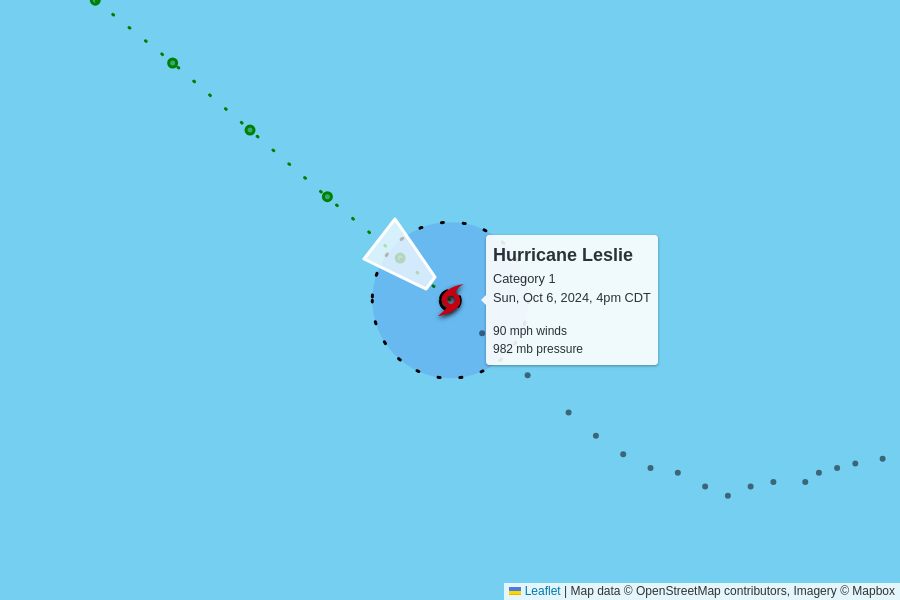
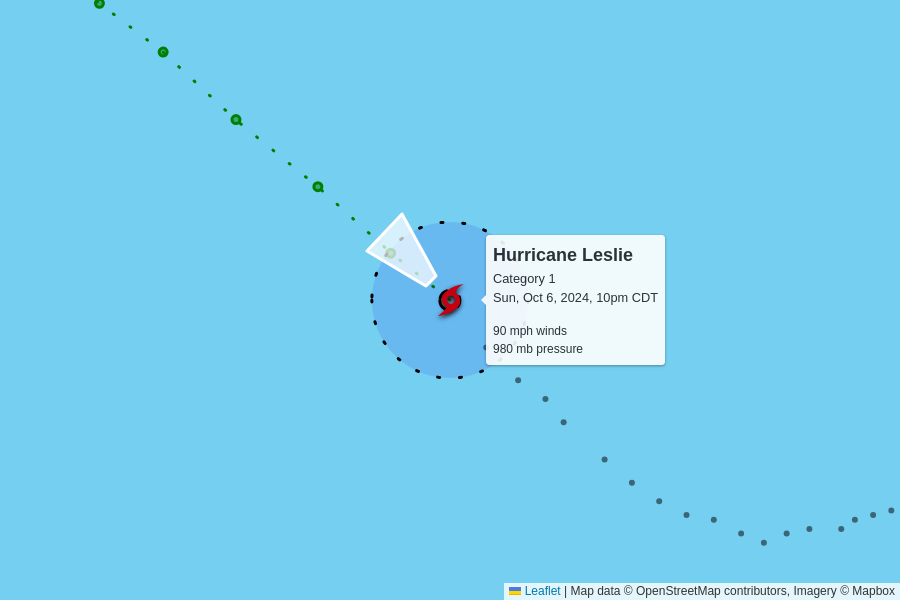
automatic update

diff --git a/docs/index.html b/docs/index.html
@@ -147,52 +147,8 @@
       <tr>
         <td colspan="6" class="storm category-1" >
           <h2>
-            Hurricane Milton - Category 1
-            <p class="updated">last updated <span data-time>2024-10-07T00:00:00.000Z</span></p>
-          </h2>
-        </td>
-      </tr>
-      
-      <tr>
-        <th class="spacer"></th>
-        <th>wind speed</th>
-        <th>central pressure</th>
-        <th>movement</th>
-        <th>data (CSV)</th>
-        <th>National Hurricane Center</th>
-      </tr>
-      <tr>
-        <td class="spacer"></td>
-        <td>85 mph<br>0 mph since last update</td>
-        <td>981 mb<br>-2 mb since last update</td>
-        <td>
-          7 mph to the east
-          <br/>
-          <span style="display: inline-block; font-size: 1.5em; transform: rotate(100deg);">↑</span>
-        </td>
-        <td><a href="https://raw.githubusercontent.com/mgwalker/atlantic-hurricanes/main/data/csv/AL142024.csv">AL142024.csv</a></td>
-        <td><a href="https://www.nhc.noaa.gov/archive/2024/MILTON.shtml?">NHC advisories</a></td>
-      </tr>
-      <tr id="storm_AL142024" >
-        <td class="spacer">
-        <td colspan="5">
-          <figure>
-            <img src="AL142024.png">
-            <figcaption>
-              Map data &copy; <a href="https://www.openstreetmap.org/copyright">OpenStreetMap</a> contributors,
-              Imagery &copy; <a href="https://www.mapbox.com/">Mapbox</a> |
-              <a href="https://www.mapbox.com/map-feedback/" target="_blank">Improve this map</a>
-            </figcaption>
-          </figure>
-        </td>
-      </tr>
-      
-
-      <tr>
-        <td colspan="6" class="storm category-1" >
-          <h2>
             Hurricane Leslie - Category 1
-            <p class="updated">last updated <span data-time>2024-10-06T21:00:00.000Z</span></p>
+            <p class="updated">last updated <span data-time>2024-10-07T03:00:00.000Z</span></p>
           </h2>
         </td>
       </tr>
@@ -208,11 +164,11 @@
       <tr>
         <td class="spacer"></td>
         <td>90 mph<br>0 mph since last update</td>
-        <td>982 mb<br>0 mb since last update</td>
+        <td>980 mb<br>-2 mb since last update</td>
         <td>
-          9 mph to the northwest
+          12 mph to the northwest
           <br/>
-          <span style="display: inline-block; font-size: 1.5em; transform: rotate(310deg);">↑</span>
+          <span style="display: inline-block; font-size: 1.5em; transform: rotate(315deg);">↑</span>
         </td>
         <td><a href="https://raw.githubusercontent.com/mgwalker/atlantic-hurricanes/main/data/csv/AL132024.csv">AL132024.csv</a></td>
         <td><a href="https://www.nhc.noaa.gov/archive/2024/LESLIE.shtml?">NHC advisories</a></td>
@@ -222,6 +178,50 @@
         <td colspan="5">
           <figure>
             <img src="AL132024.png">
+            <figcaption>
+              Map data &copy; <a href="https://www.openstreetmap.org/copyright">OpenStreetMap</a> contributors,
+              Imagery &copy; <a href="https://www.mapbox.com/">Mapbox</a> |
+              <a href="https://www.mapbox.com/map-feedback/" target="_blank">Improve this map</a>
+            </figcaption>
+          </figure>
+        </td>
+      </tr>
+      
+
+      <tr>
+        <td colspan="6" class="storm category-1" >
+          <h2>
+            Hurricane Milton - Category 1
+            <p class="updated">last updated <span data-time>2024-10-07T03:00:00.000Z</span></p>
+          </h2>
+        </td>
+      </tr>
+      
+      <tr>
+        <th class="spacer"></th>
+        <th>wind speed</th>
+        <th>central pressure</th>
+        <th>movement</th>
+        <th>data (CSV)</th>
+        <th>National Hurricane Center</th>
+      </tr>
+      <tr>
+        <td class="spacer"></td>
+        <td>90 mph<br>+5 mph since last update</td>
+        <td>977 mb<br>-4 mb since last update</td>
+        <td>
+          7 mph to the east
+          <br/>
+          <span style="display: inline-block; font-size: 1.5em; transform: rotate(100deg);">↑</span>
+        </td>
+        <td><a href="https://raw.githubusercontent.com/mgwalker/atlantic-hurricanes/main/data/csv/AL142024.csv">AL142024.csv</a></td>
+        <td><a href="https://www.nhc.noaa.gov/archive/2024/MILTON.shtml?">NHC advisories</a></td>
+      </tr>
+      <tr id="storm_AL142024" >
+        <td class="spacer">
+        <td colspan="5">
+          <figure>
+            <img src="AL142024.png">
             <figcaption>
               Map data &copy; <a href="https://www.openstreetmap.org/copyright">OpenStreetMap</a> contributors,
               Imagery &copy; <a href="https://www.mapbox.com/">Mapbox</a> |
